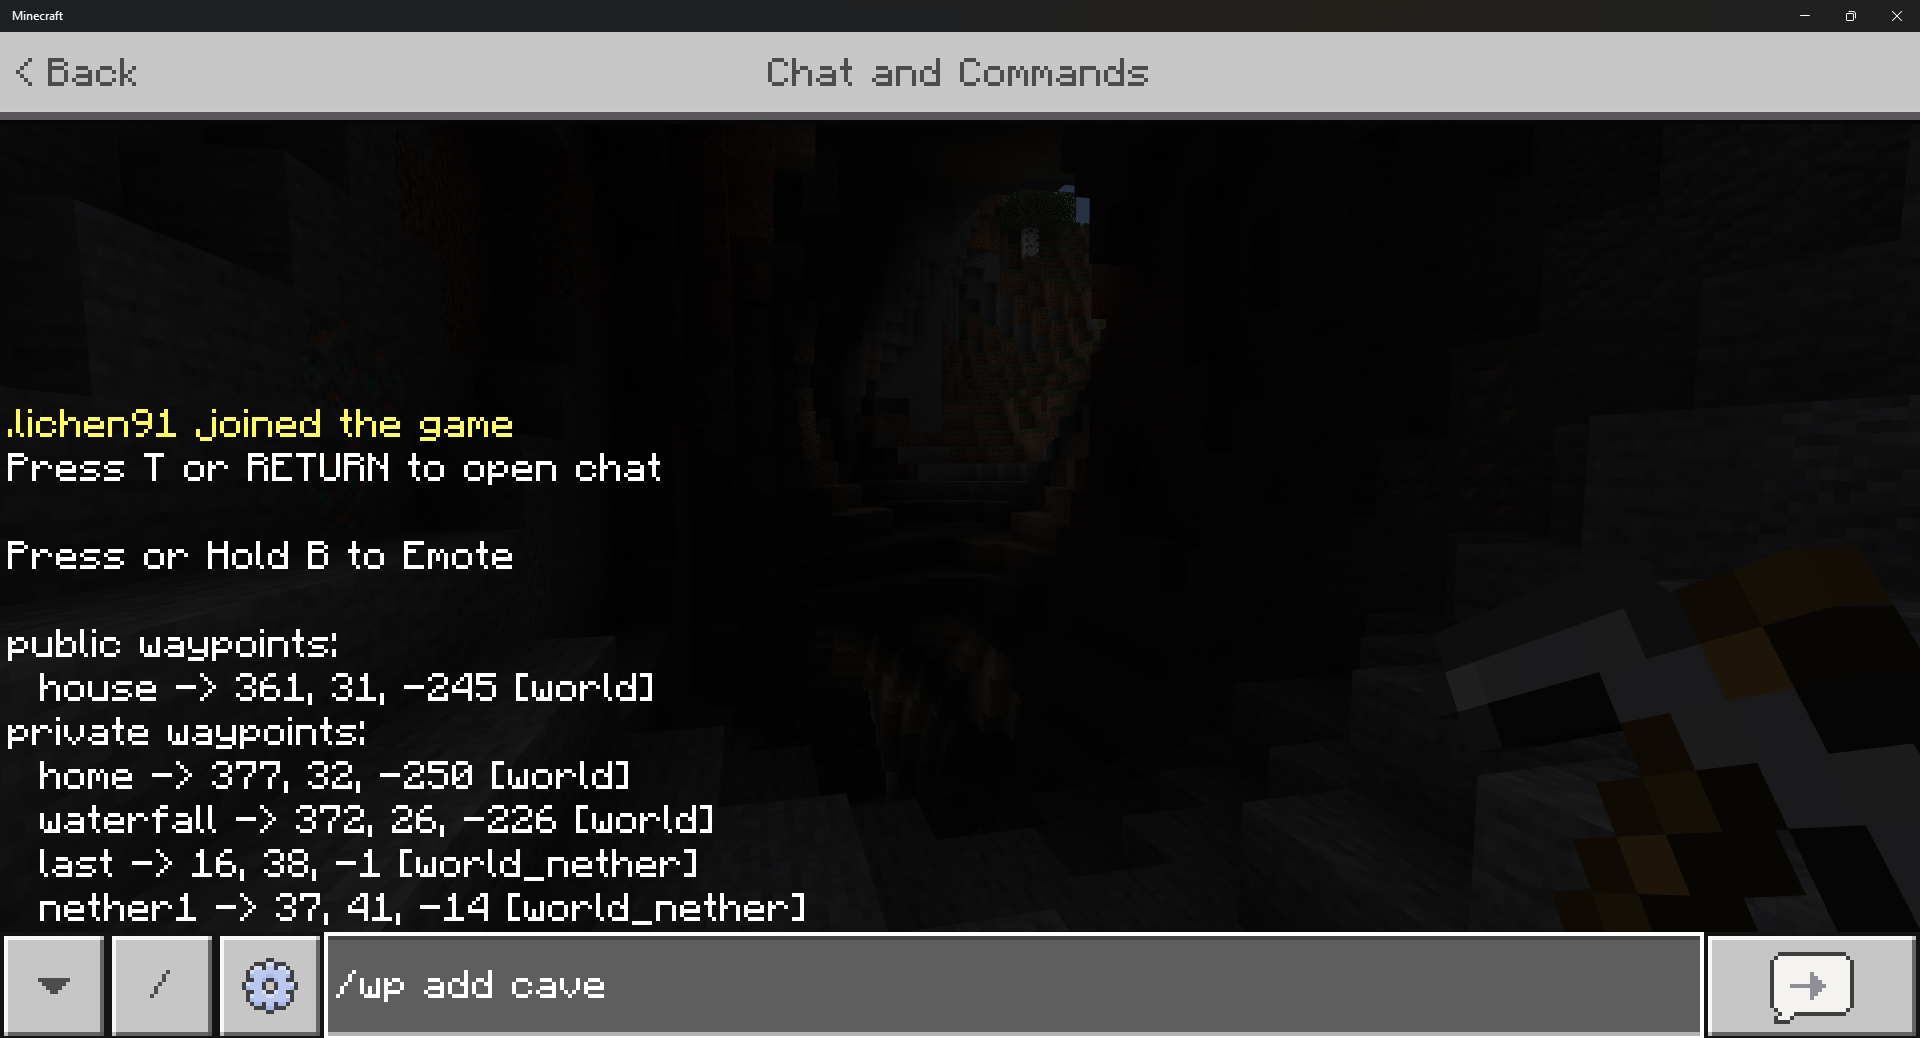
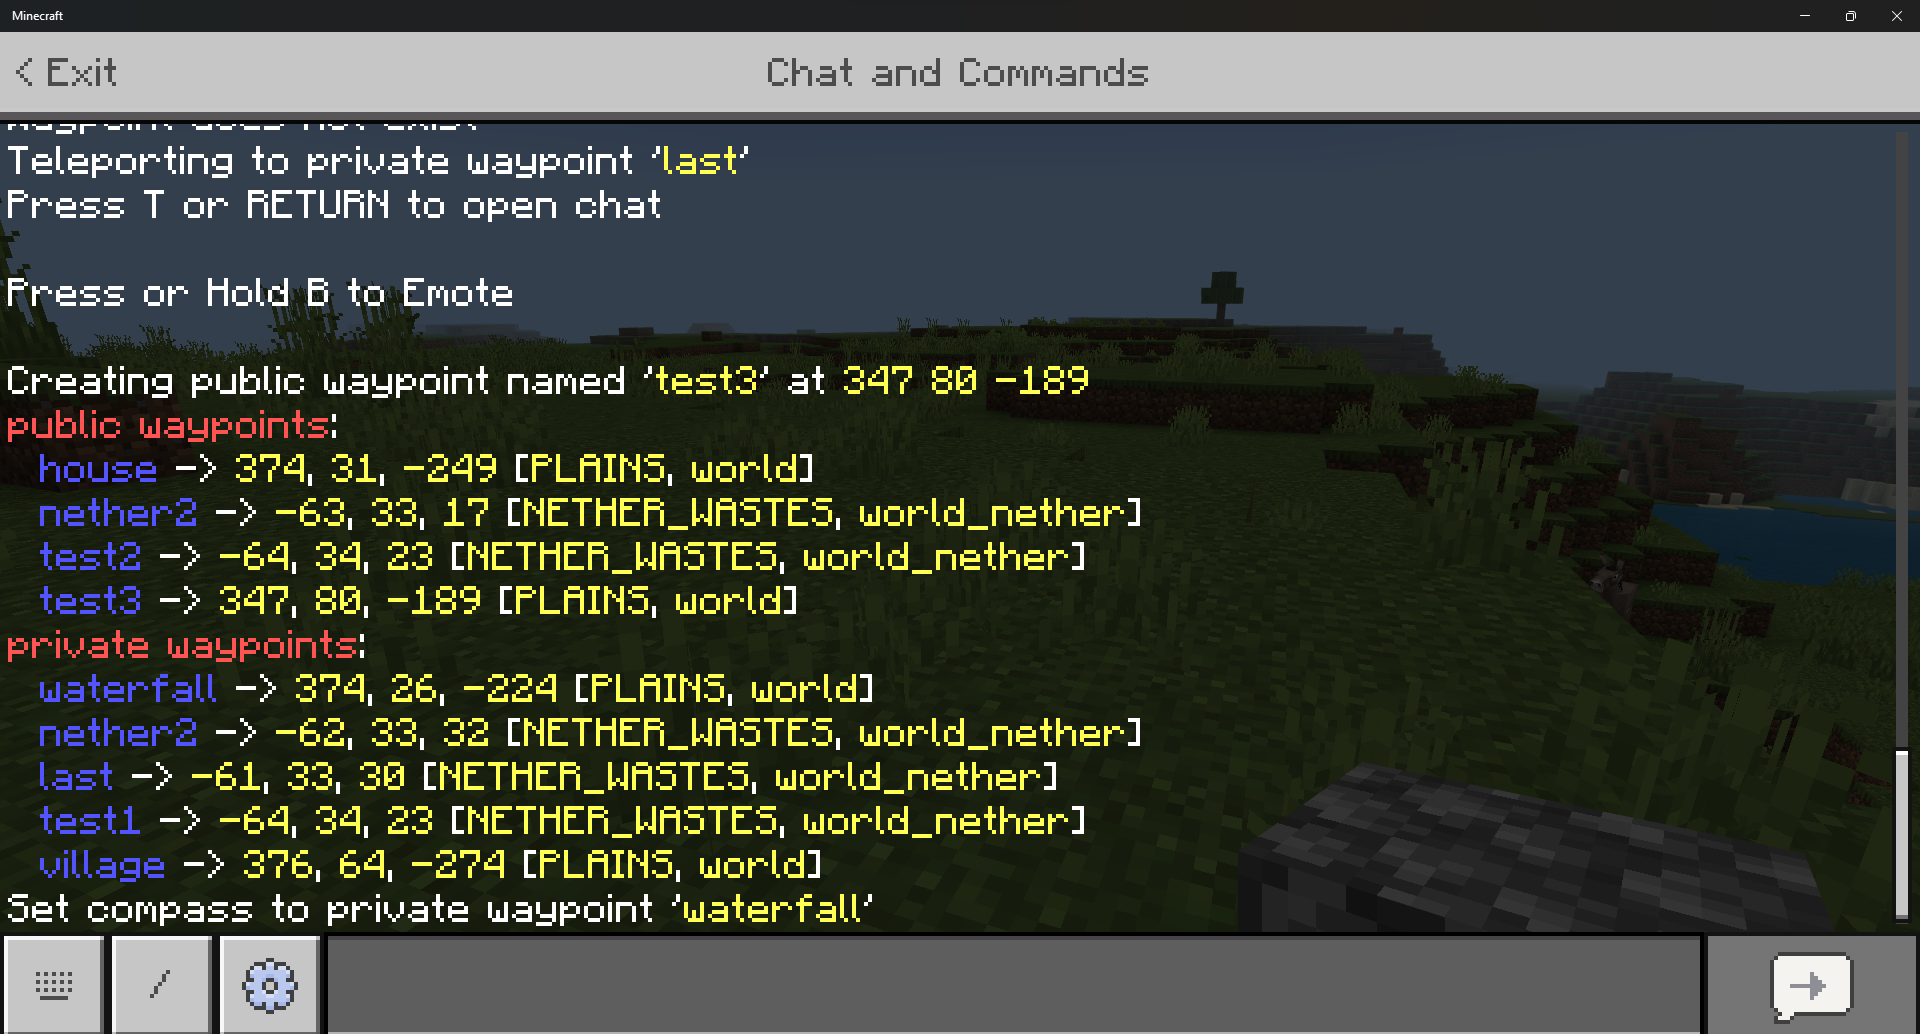
Refactor waypoint storage

diff --git a/src/main/java/io/github/lichen911/waypoints/WpCommand.java b/src/main/java/io/github/lichen911/waypoints/WpCommand.java
@@ -2,9 +2,7 @@ package io.github.lichen911.waypoints;
 
 import java.util.Map;
 
-import org.bukkit.Bukkit;
 import org.bukkit.Location;
-import org.bukkit.World;
 import org.bukkit.command.Command;
 import org.bukkit.command.CommandExecutor;
 import org.bukkit.command.CommandSender;
@@ -17,7 +15,12 @@ public class WpCommand implements CommandExecutor {
     private final Waypoints plugin;
     private final String configPublicPrefix = "waypoints.public";
     private final String configPlayersPrefix = "waypoints.players";
+    private final String configLocPath = "loc";
+    private final String configBiomePath = "biome";
+    private final String configUserPath = "userName";
     private final String lastWpName = "last";
+    private final String wpTypeNamePub = "public";
+    private final String wpTypeNamePriv = "private";
 
     public WpCommand(Waypoints plugin) {
         this.plugin = plugin;
@@ -35,53 +38,44 @@ public class WpCommand implements CommandExecutor {
                 + "- Print a list of both public and the player's own private waypoints");
     }
 
-    private String getConfigPath(String playerName, String wpName, String wpType) {
+    private String getConfigPath(String playerUuid, String wpName, String wpType) {
         String configPath;
-        if (wpType.equals(CommandLiteral.PUB)) {
+        if (wpType.equals(wpTypeNamePub)) {
             configPath = configPublicPrefix + "." + wpName;
         } else {
-            configPath = configPlayersPrefix + "." + playerName + "." + wpName;
+            configPath = configPlayersPrefix + "." + playerUuid + "." + wpName;
         }
 
         return configPath;
     }
 
     private Location getLocationFromConfig(Player player, String wpName, String wpType) {
-        String playerName = player.getPlayerListName();
-        String configPath = this.getConfigPath(playerName, wpName, wpType);
-        String coord = this.plugin.getConfig().getString(configPath);
-
-        Location location = null;
-        if (coord != null) {
-            String[] coordArray = coord.split("\\s+");
-
-            double x = (double) Integer.parseInt(coordArray[0]);
-            double y = (double) Integer.parseInt(coordArray[1]);
-            double z = (double) Integer.parseInt(coordArray[2]);
-
-            String worldName = coordArray[3];
-            World world = Bukkit.getWorld(worldName);
-
-            location = new Location(world, x, y, z);
-        }
+        String playerUuid = player.getUniqueId().toString();
+        String configPath = this.getConfigPath(playerUuid, wpName, wpType) + "." + configLocPath;
+        Location location = Waypoints.WpConfig.getConfig().getLocation(configPath);
         return location;
     }
 
     // Overloaded addWaypoint method to allow passing location that is different
     // than player's current location
     private void addWaypoint(Player player, String worldName, String wpName, String wpType, Location location) {
+        String playerUuid = player.getUniqueId().toString();
         String playerName = player.getPlayerListName();
         String coord = location.getBlockX() + " " + location.getBlockY() + " " + location.getBlockZ();
-        String configPath = this.getConfigPath(playerName, wpName, wpType);
+        String configPath = this.getConfigPath(playerUuid, wpName, wpType);
+        String playerBiome = location.getBlock().getBiome().toString();
 
         // Do not display the message if the waypoint is named "last" since this is an
         // automatically created waypoint.
         if (!wpName.equals(lastWpName)) {
-            player.sendMessage("Creating waypoint named '" + ChatColor.YELLOW + wpName + ChatColor.WHITE + "' at "
-                    + ChatColor.YELLOW + coord);
+            player.sendMessage("Creating " + wpType + " waypoint named '" + ChatColor.YELLOW + wpName + ChatColor.WHITE
+                    + "' at " + ChatColor.YELLOW + coord);
         }
-        this.plugin.getConfig().set(configPath, coord + " " + worldName);
-        this.plugin.saveConfig();
+
+        Waypoints.WpConfig.getConfig().set(configPath + "." + configLocPath, location);
+        Waypoints.WpConfig.getConfig().set(configPath + "." + configBiomePath, playerBiome);
+        Waypoints.WpConfig.getConfig().set(configPath + "." + configUserPath, playerName);
+        Waypoints.WpConfig.saveConfig();
     }
 
     private void addWaypoint(Player player, String wpName, String wpType) {
@@ -91,56 +85,68 @@ public class WpCommand implements CommandExecutor {
     }
 
     private void delWaypoint(Player player, String wpName, String wpType) {
-        String playerName = player.getPlayerListName();
-        String configPath = this.getConfigPath(playerName, wpName, wpType);
+        String playerUuid = player.getUniqueId().toString();
+        String configPath = this.getConfigPath(playerUuid, wpName, wpType);
 
-        player.sendMessage("Deleting waypoint named '" + ChatColor.YELLOW + wpName + ChatColor.WHITE + "'");
-        this.plugin.getConfig().set(configPath, null);
-        this.plugin.saveConfig();
+        player.sendMessage(
+                "Deleting " + wpType + " waypoint named '" + ChatColor.YELLOW + wpName + ChatColor.WHITE + "'");
+        Waypoints.WpConfig.getConfig().set(configPath, null);
+        Waypoints.WpConfig.saveConfig();
 
     }
 
-    private void printWaypointConfigMap(ConfigurationSection waypointMapConfigSection, Player player,
-            String wpTypeDesc) {
+    private void printWaypointConfigMap(ConfigurationSection waypointMapConfigSection, Player player, String wpTypeDesc,
+            String configPrefix) {
         if (waypointMapConfigSection != null) {
-            Map<String, Object> publicWaypointMap = waypointMapConfigSection.getValues(false);
+            Map<String, Object> waypointMap = waypointMapConfigSection.getValues(false);
 
             player.sendMessage(ChatColor.RED + wpTypeDesc + " waypoints" + ChatColor.WHITE + ":");
-            for (Map.Entry<String, Object> entry : publicWaypointMap.entrySet()) {
-                String coordStr = (String) entry.getValue();
-                String[] coordArray = coordStr.split("\\s+");
-                String x = coordArray[0];
-                String y = coordArray[1];
-                String z = coordArray[2];
-                String world = coordArray[3];
+            for (Map.Entry<String, Object> entry : waypointMap.entrySet()) {
+                String wpName = entry.getKey();
 
-                player.sendMessage("  " + ChatColor.BLUE + entry.getKey() + ChatColor.WHITE + " -> " + ChatColor.YELLOW
-                        + x + ChatColor.WHITE + ", " + ChatColor.YELLOW + y + ChatColor.WHITE + ", " + ChatColor.YELLOW
-                        + z + ChatColor.WHITE + " [" + ChatColor.YELLOW + world + ChatColor.WHITE + "]");
+                String wpLocPath = configPrefix + "." + wpName + "." + configLocPath;
+                Location wpLoc = Waypoints.WpConfig.getConfig().getLocation(wpLocPath);
+
+                String wpBiomePath = configPrefix + "." + wpName + "." + configBiomePath;
+                String wpBiome = Waypoints.WpConfig.getConfig().getString(wpBiomePath);
+
+                this.printWaypointDetail(player, wpName, wpLoc, wpBiome);
             }
         } else {
             player.sendMessage("No " + wpTypeDesc + " waypoints");
         }
     }
 
+    private void printWaypointDetail(Player player, String wpName, Location location, String biome) {
+        String msg = "  " + ChatColor.BLUE + wpName + ChatColor.WHITE;
+        msg += " -> " + ChatColor.YELLOW + location.getBlockX() + ChatColor.WHITE;
+        msg += ", " + ChatColor.YELLOW + location.getBlockY() + ChatColor.WHITE;
+        msg += ", " + ChatColor.YELLOW + location.getBlockZ() + ChatColor.WHITE;
+        msg += " [" + ChatColor.YELLOW + biome + ChatColor.WHITE;
+        msg += ", " + ChatColor.YELLOW + location.getWorld().getName() + ChatColor.WHITE + "]";
+
+        player.sendMessage(msg);
+    }
+
     private void listWaypoint(Player player) {
-        String playerName = player.getPlayerListName();
-        String configPlayerPath = configPlayersPrefix + "." + playerName;
-        ConfigurationSection publicWaypointMapSection = this.plugin.getConfig()
+        String playerUuid = player.getUniqueId().toString();
+        String configPlayerPath = configPlayersPrefix + "." + playerUuid;
+
+        ConfigurationSection publicWaypointMapSection = Waypoints.WpConfig.getConfig()
                 .getConfigurationSection(configPublicPrefix);
-        ConfigurationSection privateWaypointMapSection = this.plugin.getConfig()
+        this.printWaypointConfigMap(publicWaypointMapSection, player, wpTypeNamePub, configPublicPrefix);
+
+        ConfigurationSection privateWaypointMapSection = Waypoints.WpConfig.getConfig()
                 .getConfigurationSection(configPlayerPath);
-
-        this.printWaypointConfigMap(publicWaypointMapSection, player, "public");
-        this.printWaypointConfigMap(privateWaypointMapSection, player, "private");
-
+        this.printWaypointConfigMap(privateWaypointMapSection, player, wpTypeNamePriv, configPlayerPath);
     }
 
     private void setWaypoint(Player player, String wpName, String wpType) {
         Location location = this.getLocationFromConfig(player, wpName, wpType);
         if (location != null) {
             player.setCompassTarget(location);
-            player.sendMessage("Set compass to waypoint '" + ChatColor.YELLOW + wpName + ChatColor.WHITE + "'");
+            player.sendMessage(
+                    "Set compass to " + wpType + " waypoint '" + ChatColor.YELLOW + wpName + ChatColor.WHITE + "'");
         } else {
             player.sendMessage("Waypoint does not exist");
         }
@@ -153,12 +159,13 @@ public class WpCommand implements CommandExecutor {
 
         Location location = this.getLocationFromConfig(player, wpName, wpType);
         if (location != null) {
-            player.sendMessage("Teleporting to waypoint '" + ChatColor.YELLOW + wpName + ChatColor.WHITE + "'");
+            player.sendMessage(
+                    "Teleporting to " + wpType + " waypoint '" + ChatColor.YELLOW + wpName + ChatColor.WHITE + "'");
             player.teleport(location);
 
             // Whenever a player teleports first store their current location in
             // a waypoint named "last".
-            this.addWaypoint(player, prevWorldName, lastWpName, CommandLiteral.PRIV, prevLocation);
+            this.addWaypoint(player, prevWorldName, lastWpName, wpTypeNamePriv, prevLocation);
         } else {
             player.sendMessage("Waypoint does not exist");
         }
@@ -181,14 +188,14 @@ public class WpCommand implements CommandExecutor {
         } else if (split.length >= 2 && split.length <= 3) {
             String cmd = split[0];
             String wpName = split[1];
-            String wpType = CommandLiteral.PRIV;
+            String wpType = wpTypeNamePriv;
 
             if (split.length == 3) {
-                wpType = split[2];
-
-                if (!wpType.equals(CommandLiteral.PUB)) {
+                if (!split[2].equals(CommandLiteral.PUB)) {
                     this.printHelp(player);
                     return true;
+                } else {
+                    wpType = wpTypeNamePub;
                 }
             }
 
@@ -200,6 +207,8 @@ public class WpCommand implements CommandExecutor {
                 this.setWaypoint(player, wpName, wpType);
             } else if (cmd.equals(CommandLiteral.TP)) {
                 this.tpWaypoint(player, wpName, wpType);
+            } else {
+                this.printHelp(player);
             }
         } else {
             this.printHelp(player);

diff --git a/src/main/java/io/github/lichen911/waypoints/Waypoints.java b/src/main/java/io/github/lichen911/waypoints/Waypoints.java
@@ -4,10 +4,15 @@ import org.bstats.bukkit.Metrics;
 import org.bukkit.plugin.java.JavaPlugin;
 
 public final class Waypoints extends JavaPlugin {
+    public static ConfigReader WpConfig;
+
     @Override
     public void onEnable() {
         Metrics metrics = new Metrics(this, 20727);
+        WpConfig = new ConfigReader(this, "", "waypoints.yml");
+        WpConfig.saveDefaultConfig();
 
         getCommand(CommandLiteral.WP).setExecutor(new WpCommand(this));
+
     }
 }
